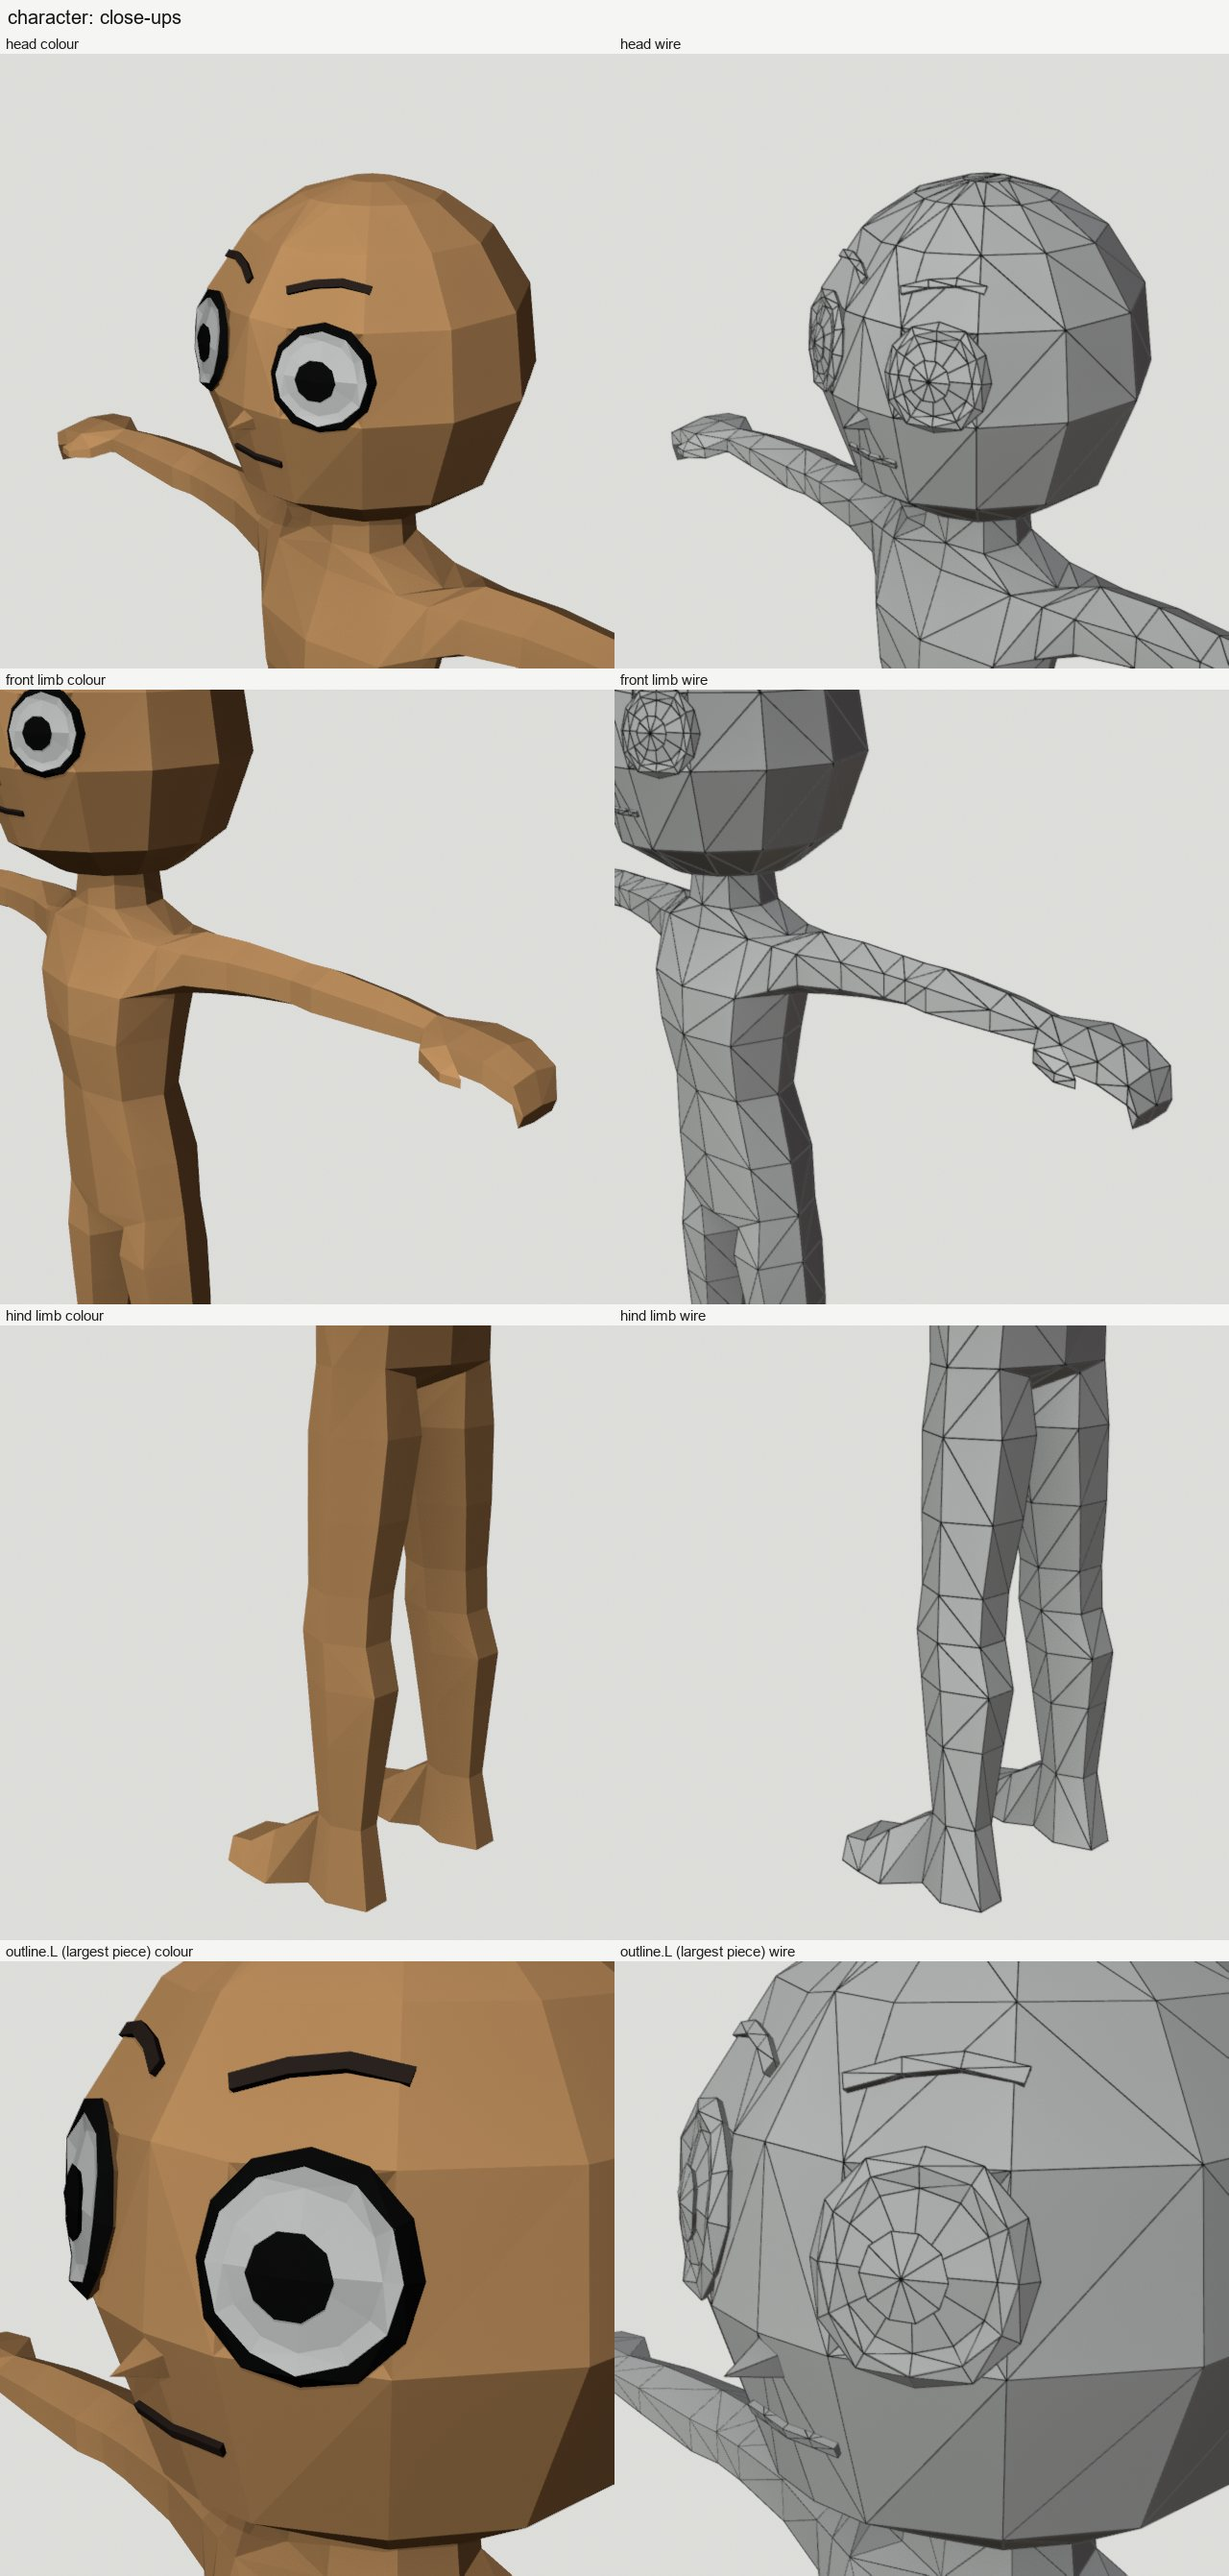
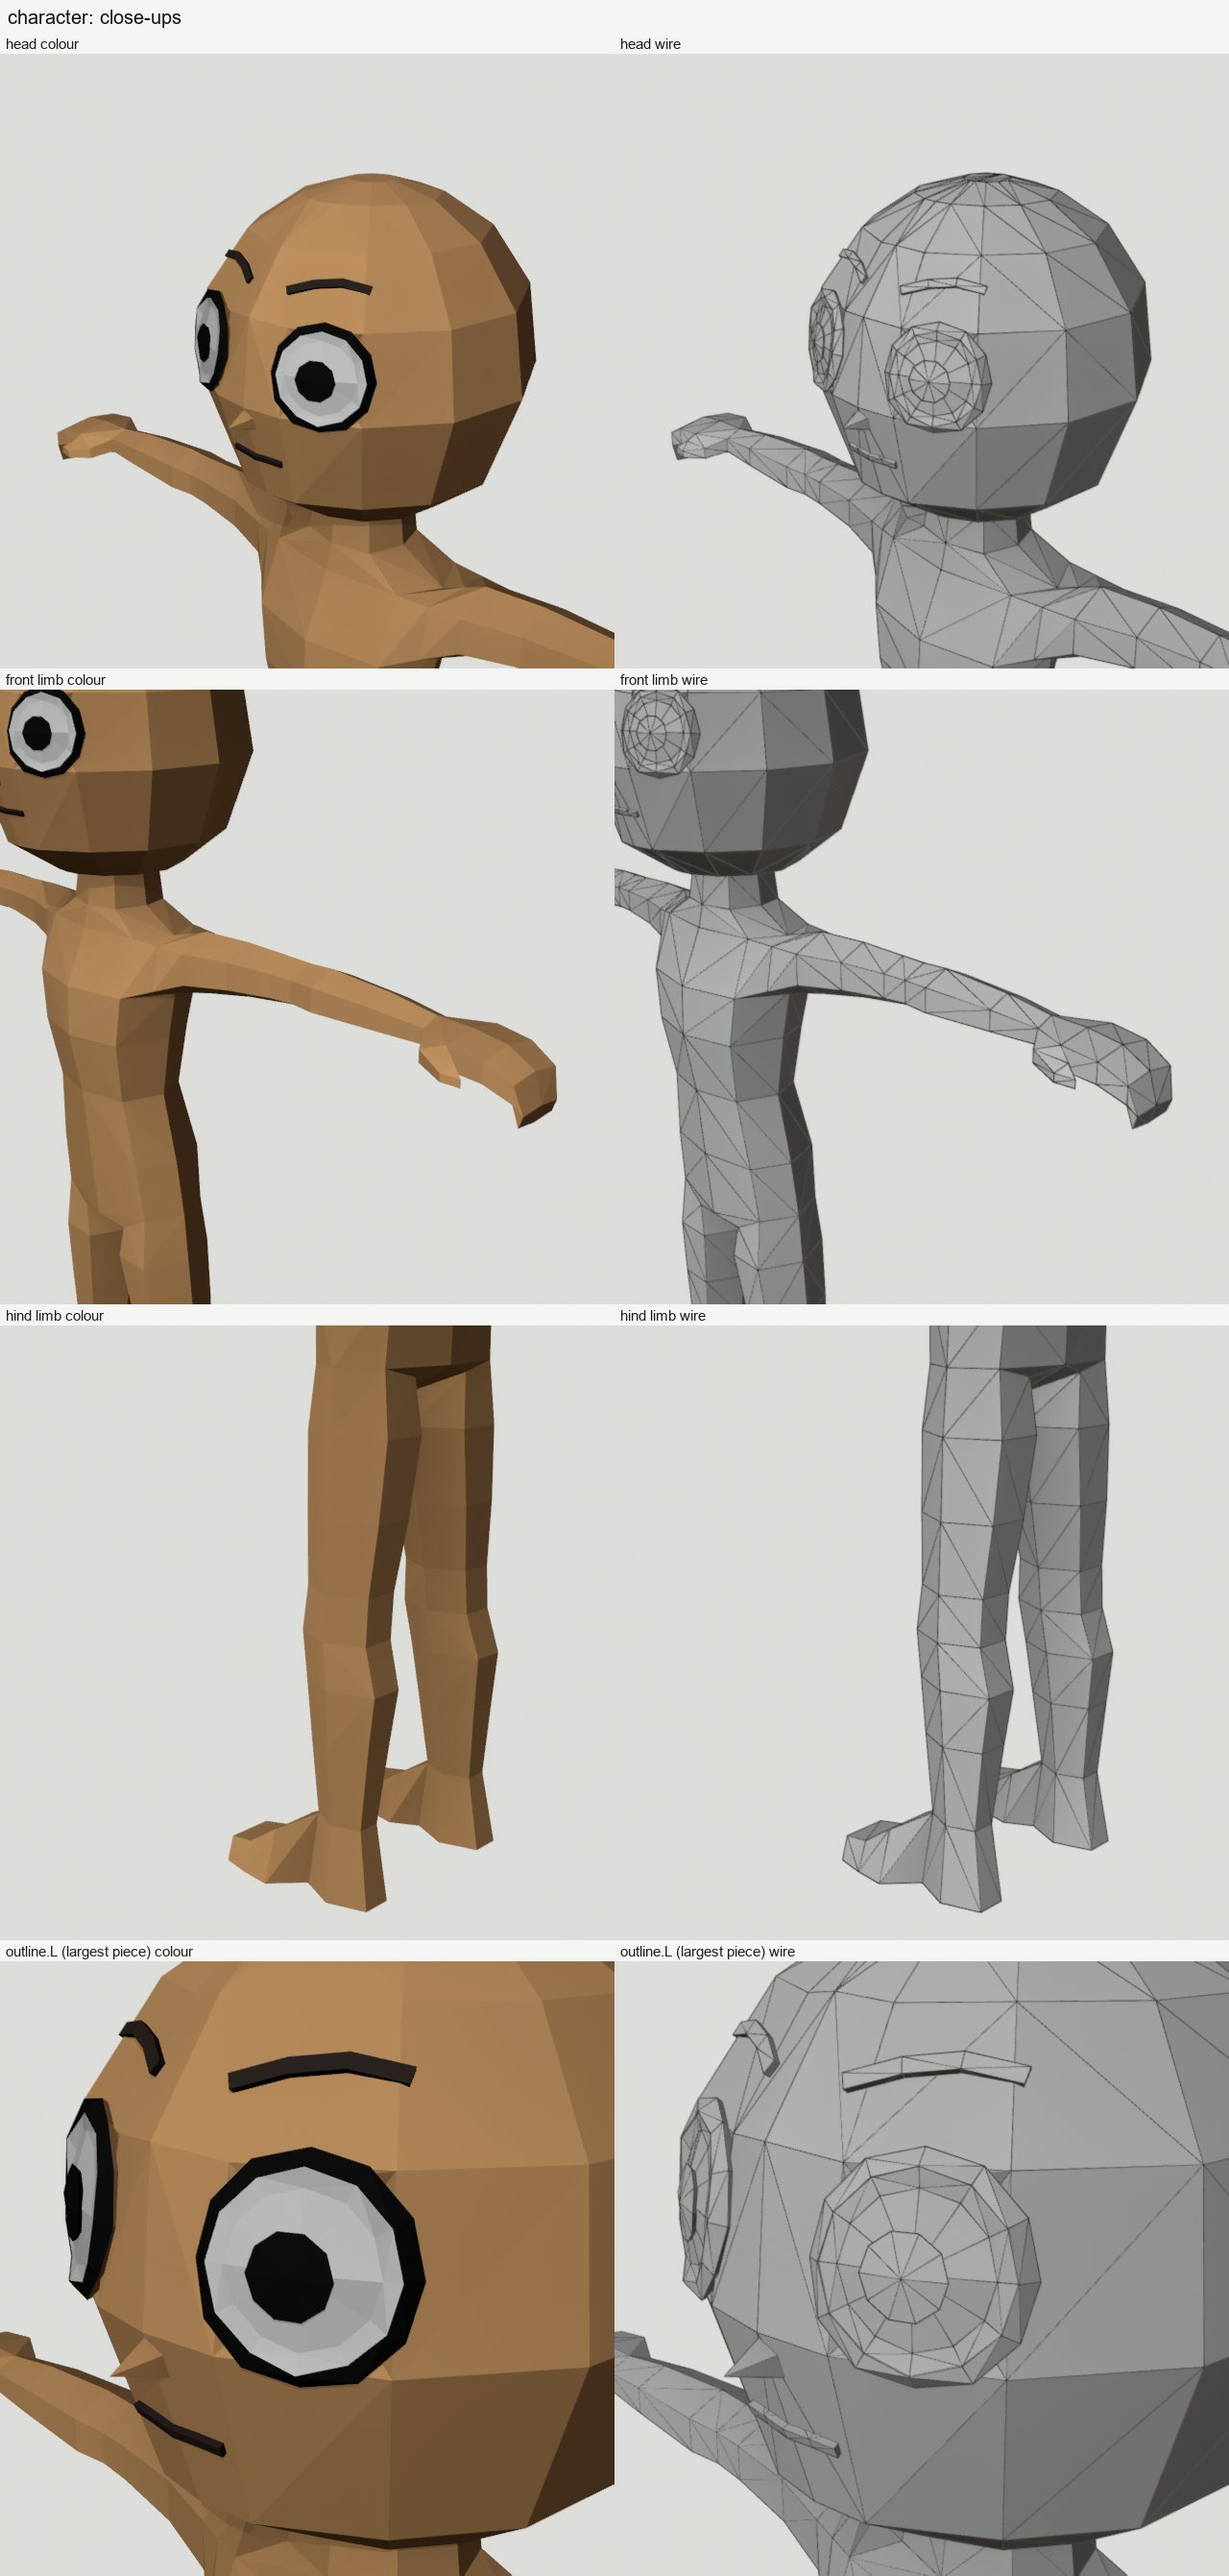
experiments/boxmodel: wire overlay without even offset, posed stretch warning, workflow tiers
- The wire overlay's Wireframe modifier used even offset, which mitres
  sharp corners (thumb tips) into needle spikes that reviewers read as
  geometry. The exported character GLB has no needle triangles; the
  overlay now uses plain offset and the character packet is re-rendered.
- techqa: posed "stretch" measure (teal, warning): a triangle whose
  longest edge grows past 2x its rest length. It stays a warning because
  tongues and hopping legs stretch by design.
- WORKFLOW.md: both tiers start from a fitted GPT sheet; medium is K=1
  plus a blind before/after check, high is K=2 with a re-review after each.

diff --git a/experiments/boxmodel/kit/techqa.py b/experiments/boxmodel/kit/techqa.py
@@ -41,9 +41,15 @@ SLIVER_DEG = 6.0
 COL = {'ok': (0.80, 0.80, 0.78), 'valley': (0.92, 0.10, 0.10), 'fold': (1.0, 0.55, 0.10),
        'sliver': (1.0, 0.90, 0.15), 'hit': (0.92, 0.10, 0.85), 'open': (0.10, 0.80, 0.95),
        'float': (0.15, 0.30, 1.0), 'zfight': (0.10, 0.85, 0.30), 'flip': (0.55, 0.15, 0.85),
-       'drift': (0.60, 0.38, 0.15), 'clip': (1.0, 0.55, 0.70)}
-PRIORITY = ['flip', 'hit', 'clip', 'float', 'drift', 'zfight', 'open', 'valley', 'sliver', 'fold']
+       'drift': (0.60, 0.38, 0.15), 'clip': (1.0, 0.55, 0.70), 'stretch': (0.0, 0.50, 0.50)}
+PRIORITY = ['flip', 'stretch', 'hit', 'clip', 'float', 'drift', 'zfight', 'open', 'valley', 'sliver', 'fold']
 MAX_SAMPLES = 40          # posed frames per clip
+STRETCH = 2.0             # posed longest edge / rest longest edge: past this a triangle is a needle
+
+
+def _longest(V, t):
+    a, b, c = (V[i] for i in t)
+    return max((a - b).length, (b - c).length, (c - a).length)
 
 
 def _key_frames(act):
@@ -365,6 +371,8 @@ def measure(body, pieces, size, rig=None, acts=None):
         for o in objs:
             V, T, P = data[o.name]
             rest_n[o.name] = [_tri_normal(V, t) for _, t in T]
+        rest_e = {o.name: [_longest(data[o.name][0], t) for _, t in data[o.name][1]] for o in objs}
+        stretched = {}
         drifted = set()
         near = _near_ring(bT)
         clip0 = _clipping(bV, bT, near, {o.name: data[o.name][:2] for o in pieces})   # what already crosses at rest
@@ -416,8 +424,15 @@ def measure(body, pieces, size, rig=None, acts=None):
                         if folded or a1 < 0.2 * a0:
                             flag(o, p, 'flip')
                             flipped.setdefault(o.name, {})[ti] = a0     # each triangle counts once, however many frames
+                        # a stray weight drags one corner away: the triangle survives the fold test as a needle
+                        e0, e1 = rest_e[o.name][ti], _longest(V, t)
+                        if e1 > 0.01 * L and e1 > STRETCH * e0:
+                            flag(o, p, 'stretch')
+                            stretched.setdefault(o.name, {})[ti] = max(stretched.get(o.name, {}).get(ti, 0), e1 / max(e0, 1e-12))
         for o in objs:
             counts[o.name]['flip'] = len(flipped.get(o.name, {}))
+            counts[o.name]['stretch'] = len(stretched.get(o.name, {}))
+            counts[o.name]['stretch_max'] = round(max(stretched.get(o.name, {}).values(), default=0.0), 2)
             T = data[o.name][1]
             for ti in clipped.get(o.name, ()):
                 flag(o, T[ti][0], 'clip')
@@ -466,5 +481,5 @@ def clear_heatmap(objs):
 
 def summary(counts, tris):
     keys = set().union(*[c.keys() for c in counts.values()])
-    tot = {k: sum(c.get(k, 0) for c in counts.values()) for k in keys}
+    tot = {k: (max if k.endswith('_max') else sum)(c.get(k, 0) for c in counts.values()) for k in keys}
     return tot, sum(tris.values())

diff --git a/experiments/boxmodel/kit/bmkit.py b/experiments/boxmodel/kit/bmkit.py
@@ -763,7 +763,7 @@ def _wire_dups(objs, frame):
         wm = d.modifiers.new('wf', 'WIREFRAME')
         wm.thickness = t
         wm.use_replace = True
-        wm.use_even_offset = True
+        wm.use_even_offset = False         # even offset mitres sharp corners (a thumb tip) into long needle spikes
         d.color = (0.02, 0.02, 0.02, 1)
         dups.append(d)
     return dups
@@ -1161,6 +1161,9 @@ def qa_step(k, N, body, pieces, frame, rig=None, acts=None):
         ok &= _gate(f's{N} qa: no piece comes off the body in a pose (drift)', tot.get('drift', 0) <= QA_LIMITS['drift'],
                     f"{tot.get('drift', 0)} shells — bind them with body= weights (or the bone under them)")
         ca = 100.0 * tot.get('clip_area', 0) / max(1e-12, tot.get('area', 0))
+        if tot.get('stretch', 0):
+            say(f"WARN s{N} qa: {tot['stretch']} triangles stretch past {Q.STRETCH:g}x their rest length in a pose "
+                f"(teal, worst {tot.get('stretch_max', 0):g}x): a stray weight, unless the part stretches by design (a tongue)")
         if tot.get('clip', 0):
             say(f"WARN s{N} qa: {tot['clip']} triangles ({ca:.2f}% of surface) clip through the body in a pose that "
                 f"did not at rest (pink): a limb through a flap, a paw through the cheek")

diff --git a/experiments/boxmodel/kit/run.py b/experiments/boxmodel/kit/run.py
@@ -258,7 +258,8 @@ def glbcheck(glb, out):
 LEGEND = [('valley: pinched fold', (235, 26, 26)), ('fold > 25 deg', (255, 140, 26)), ('sliver', (255, 230, 38)),
           ('passes through twice', (235, 26, 217)), ('open plate', (26, 204, 242)), ('floating', (38, 77, 255)),
           ('z-fight', (26, 217, 77)), ('posed fold-over', (140, 38, 217)), ('drifts off when posed', (153, 97, 38)),
-          ('clips through when posed', (255, 140, 178))]
+          ('clips through when posed', (255, 140, 178)),
+          ('stretches when posed', (0, 128, 128))]
 
 
 def legend_strip(w):

diff --git a/experiments/boxmodel/WORKFLOW.md b/experiments/boxmodel/WORKFLOW.md
@@ -87,10 +87,11 @@ The parts it uses:
 
 | | **medium** (a creature a day, many creatures) | **high** (hero creatures, owner-reviewed) |
 |---|---|---|
+| reference | GPT 2 × 2 sheet, fitted to the brief (step 2) | GPT 2 × 2 sheet, fitted to the brief (step 2) |
 | builder | 1 × `boxmodel-builder` | 1 × `boxmodel-builder` |
 | stage-1 rounds | ≤ 10 | ≤ 14 |
 | art-director review | 1 × Fable 5.1, after stage 4 | Fable 5.1 **and** Opus 5.5 in parallel, blind, reconciled by the orchestrator: at the stage-1 lock (silhouette only) and after stage 4 |
-| repair rounds after review | K = 1 | K = 2 (re-review after each) |
+| repair rounds after review | K = 1, then a blind before/after check | K = 2, with a blind before/after re-review after each (GPT sheet + K = 2 is not yet measured) |
 | identity read | silhouettes, 1 Fable seat | silhouettes + colour, 1 Fable seat each |
 | made-by-a-person test | — | pairwise vs a CC0 hand-made reference, both orders, Fable + Opus |
 | owner gate | the gallery sheet | the gallery sheet + close-ups + the residual packet |
@@ -193,9 +194,13 @@ py -3.11 experiments/boxmodel/kit/regress.py <tag> [path filter]    # after any 
   - Reconciled notes plus a K=1 repair took the mean from 5.36 to 6.36. The
     repaired build was preferred in 20 of 22 blind calls.
   - Clipping dropped below 1% on every build that had been above it.
-  - One build regressed: needle slivers from the hands in poses, which no
-    gate measures yet. Blind before/after review catches a regression that
-    the gates pass.
+  - One build lost the blind vote (the character), partly to a render
+    artifact. The wire overlay's even offset drew needle spikes at sharp
+    corners such as thumb tips. The model has no such triangles, and the
+    overlay is fixed. The other reason was a heavier eye ring.
+- **Before you blame the model for a spike, check the renderer.** This is
+  the second overlay artifact reviewers read as geometry, after the
+  per-object outline. Find the triangle in the exported GLB first.
 - **Repair loops plateau around 6.5-7.5.** After three passes the five
   hardest creatures moved only from 6.2 to 6.5. Anatomy the base got wrong
   (hands, paws, a tail) resists notes. The next lever is the target: a

diff --git a/experiments/boxmodel/RESULTS.md b/experiments/boxmodel/RESULTS.md
@@ -599,8 +599,14 @@ The key is in `out/boxmodel/judge/k3r_key.json`. Results are in
   - But the hands throw needle slivers in every posed frame. The builder
     reported them, and Opus saw them in every frame.
   - The eye ring also reads heavier than the brief.
-  - No gate measures a posed triangle that stretches into a needle. The
-    fold-over check only sees flips and collapses. This is the next kit
-    gap.
+  - **Follow-up:** the needles were a render artifact, not geometry. The
+    wire overlay's Wireframe modifier used even offset, which mitres sharp
+    corners into spikes. No triangle in the exported GLB is a needle, and
+    none stretches 2× in any pose. The overlay no longer uses even offset.
+    The character's packet was re-rendered (r19), and it is clean.
+  - A posed stretch measure was added anyway, as a warning (teal): a
+    triangle whose longest edge grows past 2× its rest length. It fires on
+    8 of 46 builds, mostly frogs, whose tongue lash and leg extension
+    stretch by design, so it stays a warning.
 - **Residual for the owner (K=1 spent):** character hands and eye ring. The
   per-creature top issues are in the review JSONs.

diff --git a/experiments/boxmodel/abc/k3/character/NOTES.md b/experiments/boxmodel/abc/k3/character/NOTES.md
@@ -54,3 +54,5 @@ Note: J was not used to place stage-1 rings (the ring tables carry the same join
 - r18: final stage-4 run with orbit, then --review and --compare (debug intersection probe removed from stage 2).
 - r18 result: all stage-4 gates PASS (hit 0, float 0, z-fight 2 (limit 2), slivers 2 = 0.1%, flips 1 = 0.07% / 0.04% area, drift 0, lock PASS, IoU min .918 bottom), glbcheck OK, orbit holds; clip 0 (0% area). Review packet and side_by_side rebuilt. Packet check (idle f1): eyes seated in every posed frame, far hand a block, feet short with an instep, no hip line, brows seated. Residual: two thin sliver lines at the thumb tips in the posed wires; the crown still bands; feet have no separate toes.
 Triangles: stage 1 826; total 1396. Repair rounds: r07-r18 (12).
+
+- r19 (orchestrator, 2026-09-29): no model change. The posed "needle slivers" at the thumb tips were the wire overlay (the Wireframe modifier's even offset mitres sharp corners). The kit overlay is fixed; the stage-4 renders and review/ were regenerated. Gates PASS.

diff --git a/experiments/boxmodel/BRIEF.md b/experiments/boxmodel/BRIEF.md
@@ -353,3 +353,8 @@ shoulder. The kit now measures them from stage 2 on (`kit/techqa.py`).
   - `clip` (pink, a warning for now): triangles that cross another part in a
     pose but not at rest, such as a limb through a flap or a paw through the
     cheek. The count is in `techqa.json`.
+  - `stretch` (teal, a warning): a triangle whose longest edge grows past 2×
+    its rest length in a pose. It means a stray weight, unless the part
+    stretches by design, like a tongue.
+  - The wire overlay no longer uses even offset, which drew needle spikes
+    at sharp corners.
